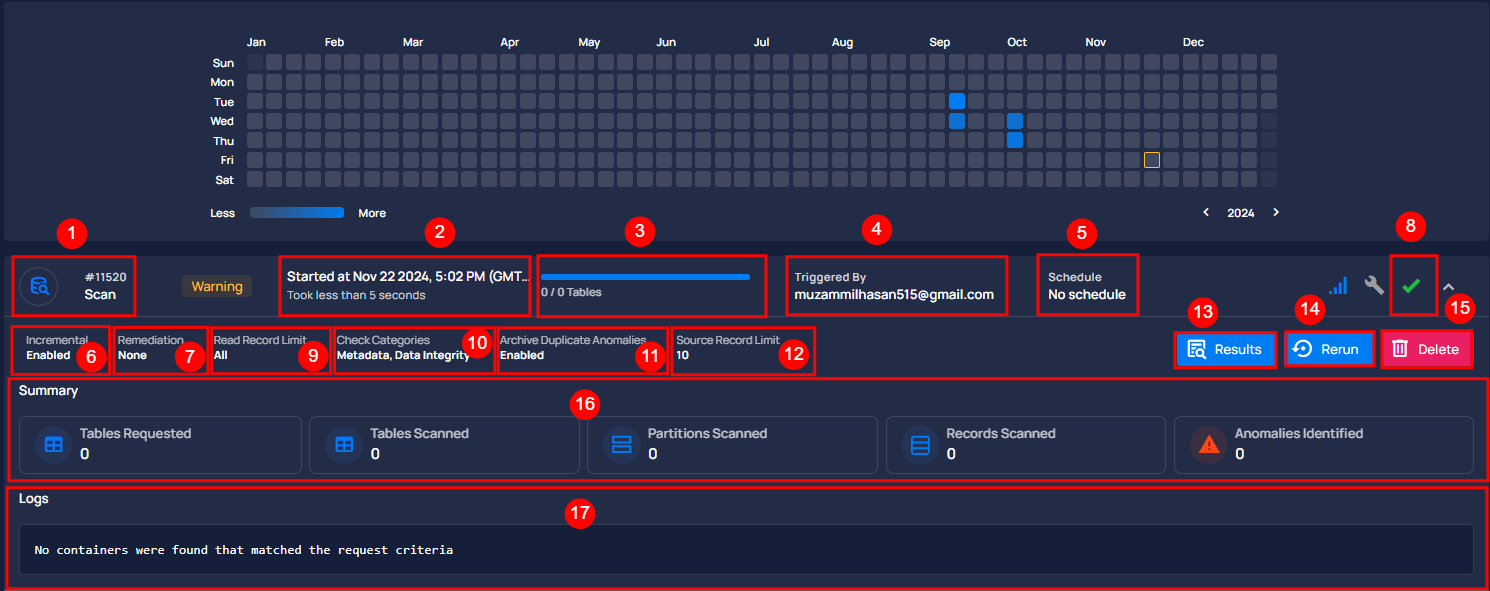
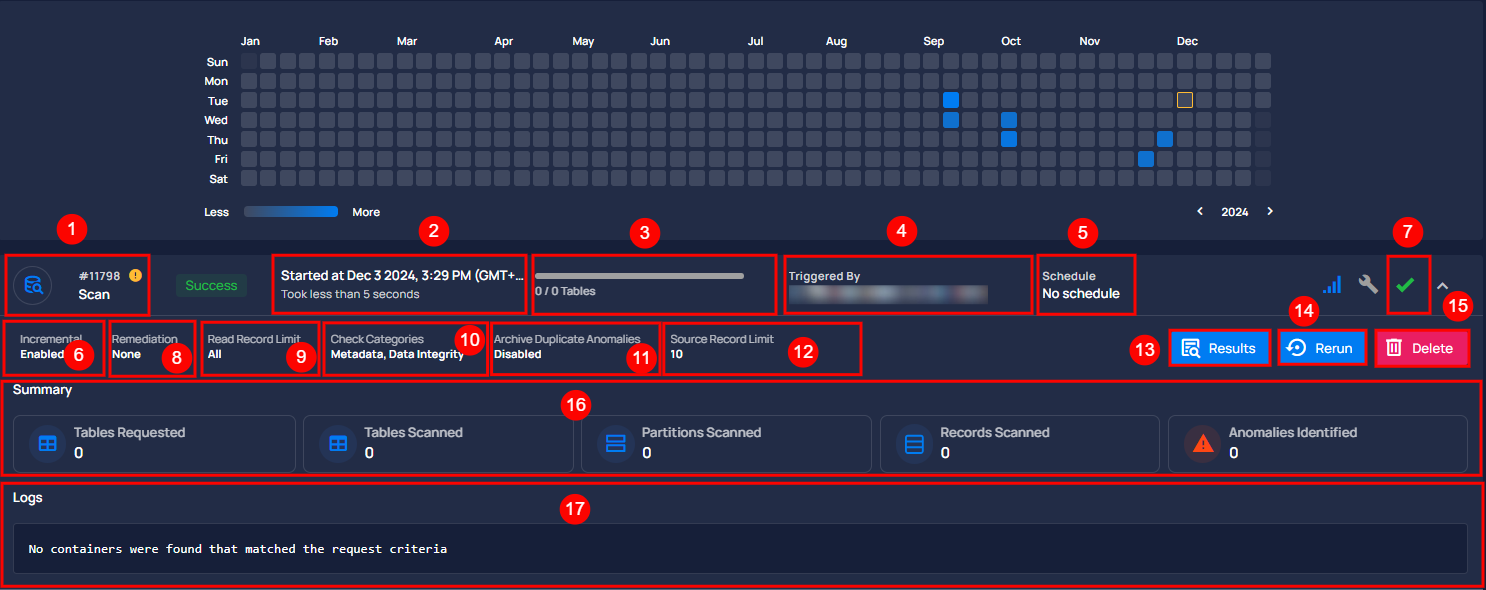
Sc-19111: Update "Scan Operation" file as per the latest release.

diff --git a/docs/source-datastore/scan.md b/docs/source-datastore/scan.md
@@ -350,7 +350,7 @@ This status indicates that the scan operation was manually stopped before it cou
 
 #### Warning
 
-This status signals that the scan operation encountered some issues and displays the logs that facilitate improved tracking of the blockers and issue resolution. A scan operation having a **warning** status reflects the following details and actions:
+This status signals that the scan operation encountered some issues and displays the logs that facilitate improved tracking of the blockers and issue resolution. A scan operation having a **completed with warning** status reflects the following details and actions:
 
 ![warning](../assets/datastores/scan/warning-light.png#only-light)
 ![warning](../assets/datastores/scan/warning-dark.png#only-dark)
@@ -369,10 +369,11 @@ This status signals that the scan operation encountered some issues and displays
 | 10      | Check Categories          | Indicates which categories should be included in the scan (Metadata, Data Integrity)|
 | 11      | Archive Duplicate Anomalies| Indicates whether Archive Duplicate Anomalies was enabled or disabled in the operation|
 | 12      | Source Record Limit       | Indicates the limit on records stored in the enrichment datastore for each detected anomaly|
-| 13      | Rerun                     | The "Rerun" button allows you to start a new scan operation using the same settings as the warning scan|
-| 14      | Delete                    | Removes the record of the warning operation from the system, permanently deleting scan results and anomalies|
-| 15      |Summary                    | The summary section provides an overview of the scan operation, highlighting any warnings encountered. It includes: <br><ul><li> **Tables Requested**: The total number of tables that were scheduled for scanning. Click on the adjacent magnifying glass icon to view the tables requested. </li><li> **Tables Scanned**: The number of tables that have been scanned so far. Click on the adjacent magnifying glass icon to view the tables scanned. </li><li> **Partitions Scanned**: The number of partitions scanned during the operation, including any partitions that triggered warnings. </li><li> **Records Scanned**: The total number of records processed during the scan, along with any records that raised warnings. </li><li> **Anomalies Identified**: The number of anomalies detected during the partial scan. </li></ul>|
-| 16       |Logs                      | Logs include error messages, warnings, and other pertinent information that occurred during the execution of the Scan Operation.|
+| 13      | Result                         | View the details of the scan operation that was completed with warning, including tables scanned and anomalies identified|
+| 14      | Rerun                     | The "Rerun" button allows you to start a new scan operation using the same settings as the warning scan|
+| 15      | Delete                    | Removes the record of the warning operation from the system, permanently deleting scan results and anomalies|
+| 16      |Summary                    | The summary section provides an overview of the scan operation, highlighting any warnings encountered. It includes: <br><ul><li> **Tables Requested**: The total number of tables that were scheduled for scanning. Click on the adjacent magnifying glass icon to view the tables requested. </li><li> **Tables Scanned**: The number of tables that have been scanned so far. Click on the adjacent magnifying glass icon to view the tables scanned. </li><li> **Partitions Scanned**: The number of partitions scanned during the operation, including any partitions that triggered warnings. </li><li> **Records Scanned**: The total number of records processed during the scan, along with any records that raised warnings. </li><li> **Anomalies Identified**: The number of anomalies detected during the partial scan. </li></ul>|
+| 17       |Logs                      | Logs include error messages, warnings, and other pertinent information that occurred during the execution of the Scan Operation.|
 
 #### Success
 
